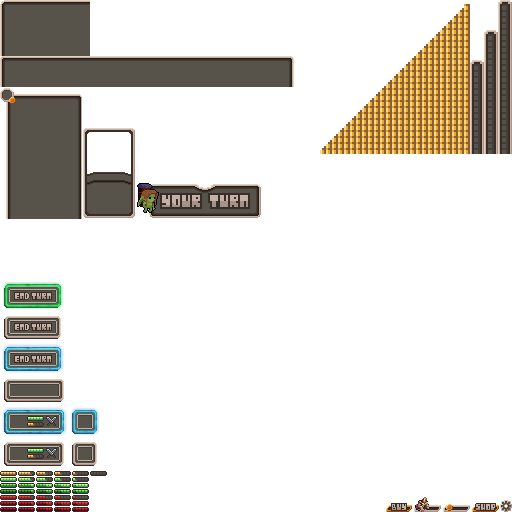
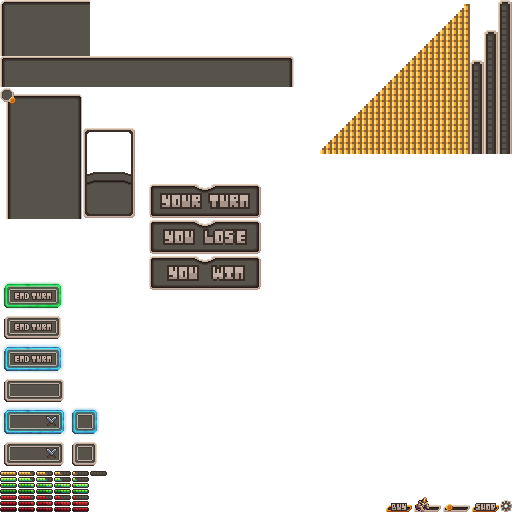
feat: add win lose toast

Changed region(s): [[0.25, 0.3438, 0.5312, 0.5938], [0.0312, 0.875, 0.0938, 0.9062], [0.0312, 0.8125, 0.0938, 0.8438]]

diff --git a/GPN 2/Assets/Scripts/LocalInventory.cs b/GPN 2/Assets/Scripts/LocalInventory.cs
@@ -71,7 +71,7 @@ public class LocalInventory
             targetEntityUnitCard.transform.position = new Vector3(targetEntityUnitCardPos.x, targetEntityUnitCardPos.y += 0.28f, targetEntityUnitCardPos.z); 
         }
         Entities.RemoveAt(entityIndex);
-        if (GetEntityListSize() <= 0) Debug.Log("You lose");
+        if (GetEntityListSize() <= 0) GameObject.FindWithTag("WinLoseToast").GetComponent<WinLoseToast>().Render(false);
     }
     
     public int GetPositionOfEntity(GameObject entity) => Entities.FindIndex(e => e == entity);
@@ -143,7 +143,7 @@ public class LocalInventory
         else 
         {
             Debug.LogError("You win");
-            GameObject.Instantiate(Resources.Load<GameObject>("Prefabs/UI/turn_toast"), Vector3.zero, Quaternion.identity);
+            GameObject.FindWithTag("WinLoseToast").GetComponent<WinLoseToast>().Render();
             ReturnToMain(); // Return to main menu : Leaves, Disconnects & Play OST.
         }
     }
@@ -162,7 +162,7 @@ public class LocalInventory
         HARVEST,
     }
 
-    private void ReturnToMain(){
+    public void ReturnToMain(){
         PhotonNetwork.LeaveRoom();
         PhotonNetwork.LoadLevel("MainMenu");
             

diff --git a/GPN 2/Assets/Scripts/UI/WinLoseToast.cs b/GPN 2/Assets/Scripts/UI/WinLoseToast.cs
@@ -1,0 +1,22 @@
+using System.Collections;
+using System.Linq;
+using UnityEngine;
+
+public class WinLoseToast : MonoBehaviour
+{
+    int lifetime = 2;
+
+    public void Render(bool isWin = true)
+    {
+        if (!isWin) GetComponent<SpriteRenderer>().sprite = Resources.LoadAll<Sprite>("UI_Atlas").Single(sprite => sprite.name.Equals("lose_toast"));
+        GetComponent<SpriteRenderer>().enabled = true;
+        StartCoroutine(WaitThenDie());
+    }
+
+    IEnumerator WaitThenDie()
+    {
+        yield return new WaitForSeconds(lifetime);
+        Destroy(this.gameObject);
+        LocalInventory.getInstance().ReturnToMain();
+    }
+}
